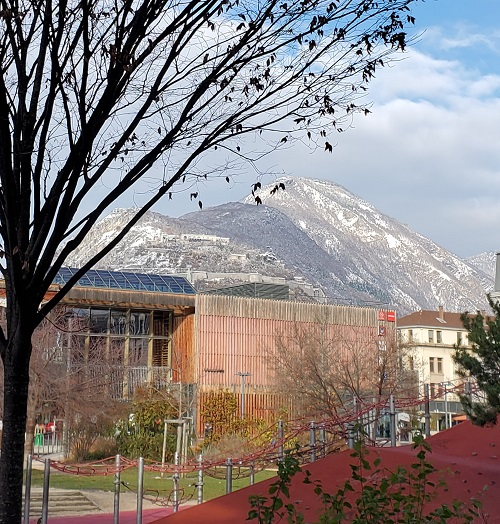
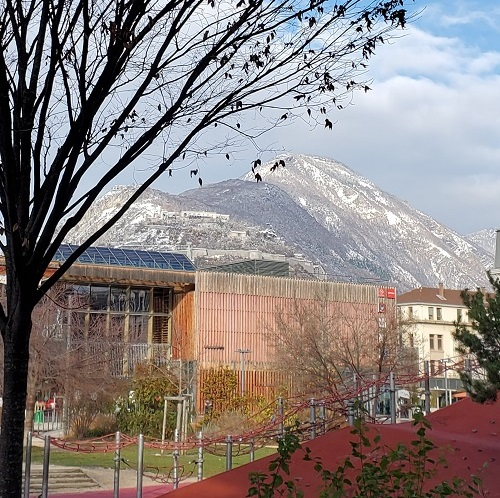
Carrousel
Ajustement de la position du carrousel
Rognage de la photo 10 qui était trop haute

diff --git a/menu.html b/menu.html
@@ -32,9 +32,9 @@
 <div class="fixed-top">      <!--"fixed-top">  -->
   <div class="fond_base_trois_textes_1920_1080">
    <div class="container-fluid"> 
-    <!--  début du menu  -->
-  
-    <div class="w-100 mt-3">      <!--  <div class="container-fluid w-100 mt-3">  -->
+
+<!--  début du menu  -->
+    <div class="w-100 mt-3">      
       <div class="row">
         <div class="col-2"></div>
         <div class="col-10 center bg-dark text-center text-white">
@@ -66,32 +66,31 @@
         </div>
       </div>
     </div>
-    
-    <!--  fin du menu  -->
+<!--  fin du menu  -->
 
     <!--  Début carousel   -->
     
-    <div class="w-100 mt-4">
+    <div class="w-100 mt-1">
       <div class="row">
         <div class="col-6"></div>
         <div class="col-5">
 
-          <div id="CVY" class="carousel slide" data-ride="carousel" data-interval="4000">
+          <div id="carouselCVY" class="carousel slide" data-ride="carousel" data-interval="4000">
           
           
             <!-- Indicateurs -->
             <ul class="carousel-indicators">
-              <li data-target="#CVYl" data-slide-to="0" class="active"></li>
-              <li data-target="#CVY" data-slide-to="1"></li>
-              <li data-target="#CVY" data-slide-to="2"></li>
-              <li data-target="#CVY" data-slide-to="3"></li>
-              <li data-target="#CVY" data-slide-to="4"></li>
-              <li data-target="#CVY" data-slide-to="5"></li>
-              <li data-target="#CVY" data-slide-to="6"></li>
-              <li data-target="#CVY" data-slide-to="7"></li>
-              <li data-target="#CVY" data-slide-to="8"></li>
-              <li data-target="#CVY" data-slide-to="9"></li>
-              <li data-target="#CVY" data-slide-to="10"></li>
+              <li data-target="#carouselCVY" data-slide-to="0" class="active"></li>
+              <li data-target="#carouselCVY" data-slide-to="1"></li>
+              <li data-target="#carouselCVY" data-slide-to="2"></li>
+              <li data-target="#carouselCVY" data-slide-to="3"></li>
+              <li data-target="#carouselCVY" data-slide-to="4"></li>
+              <li data-target="#carouselCVY" data-slide-to="5"></li>
+              <li data-target="#carouselCVY" data-slide-to="6"></li>
+              <li data-target="#carouselCVY" data-slide-to="7"></li>
+              <li data-target="#carouselCVY" data-slide-to="8"></li>
+              <li data-target="#carouselCVY" data-slide-to="9"></li>
+              <li data-target="#carouselCVY" data-slide-to="10"></li>
             </ul>
             <!-- Carrousel -->
             <div class="carousel-inner">
@@ -134,21 +133,21 @@
             </div>    <!-- carousel-inner  -->
 
             <!-- Contrôles : Left and right controls -->
-            <a class="carousel-control-prev" href="#CVY" role="button" data-slide="prev">
+            <a class="carousel-control-prev" href="#carouselCVY" role="button" data-slide="prev">
               <span class="carousel-control-prev-icon" aria-hidden="true"></span>
             </a>
-            <a class="carousel-control-next" href="#CVY" role="button" data-slide="next">
+            <a class="carousel-control-next" href="#carouselCVY" role="button" data-slide="next">
               <span class="carousel-control-next-icon aria-hidden="true""></span>
             </a>  
           </div>
         </div>     <!--  col-5 --> 
         <div class="col-1"></div>
       </div>     <!--  row -->
-    </div>     <!--  conteneur -->
+    </div>     <!--  conteneur du carrousel -->
     <div class="row"> 
     <br>
     </div>
-   </div>     <!--  conteneur -->
+   </div>     <!--  conteneur fluid -->
     
     <!--  Fin carousel   -->
   
